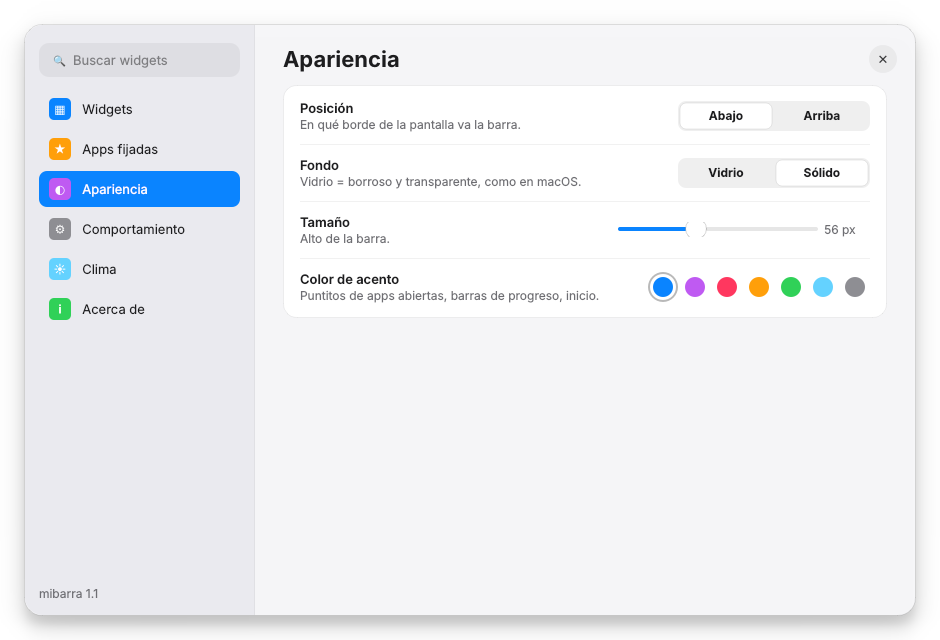
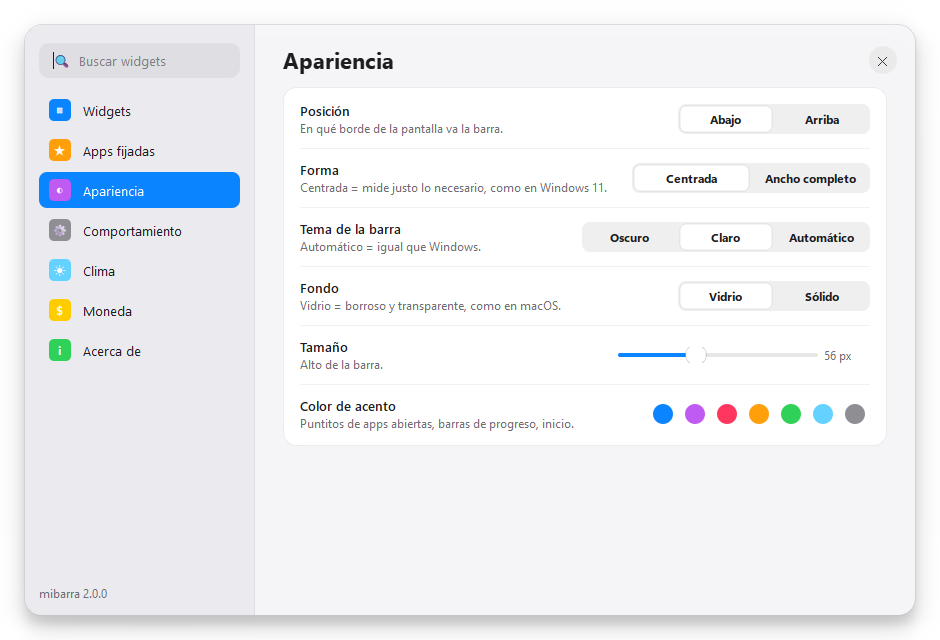
README con capturas reales de Windows, íconos de la barra lateral y ajustes de la bienvenida
Claude-Session: https://claude.ai/code/session_019qzJCWQtgTGMBNPCg4bfSi

diff --git a/ajustes.py b/ajustes.py
@@ -320,8 +320,8 @@ class VistaPrevia(QWidget):
         p.end()
 
 
-def icono_lateral(color, simbolo):
-    """Cuadradito de color con un símbolo blanco (como los íconos de Ajustes del iPhone)."""
+def icono_lateral(color, codigo, respaldo):
+    """Cuadradito de color con un ícono blanco (como los íconos de Ajustes del iPhone)."""
     pixmap = QPixmap(44, 44)
     pixmap.fill(Qt.GlobalColor.transparent)
     p = QPainter(pixmap)
@@ -330,8 +330,9 @@ def icono_lateral(color, simbolo):
     p.setBrush(QColor(color))
     p.drawRoundedRect(QRectF(0, 0, 44, 44), 10, 10)
     p.setPen(QColor("white"))
-    p.setFont(estilo.fuente(24, negrita=True))
-    p.drawText(QRectF(0, 0, 44, 44), Qt.AlignmentFlag.AlignCenter, simbolo)
+    texto, fuente = estilo.icono(codigo, respaldo, 24)
+    p.setFont(fuente)
+    p.drawText(QRectF(0, 0, 44, 44), Qt.AlignmentFlag.AlignCenter, texto)
     p.end()
     return QIcon(pixmap)
 
@@ -404,13 +405,14 @@ class Buscador(QObject):
 # =============================================================================
 class Ajustes(QWidget):
     PAGINAS = [
-        ("widgets", "Widgets", "#0a84ff", "▦"),
-        ("apps", "Apps fijadas", "#ff9f0a", "★"),
-        ("apariencia", "Apariencia", "#bf5af2", "◐"),
-        ("comportamiento", "Comportamiento", "#8e8e93", "⚙"),
-        ("clima", "Clima", "#64d2ff", "☀"),
-        ("moneda", "Moneda", "#ffcc00", "$"),
-        ("acerca", "Acerca de", "#30d158", "i"),
+        # (clave, título, color, (código de ícono de Windows, símbolo de respaldo))
+        ("widgets", "Widgets", "#0a84ff", (0xE8A9, "▦")),
+        ("apps", "Apps fijadas", "#ff9f0a", (0xE718, "★")),
+        ("apariencia", "Apariencia", "#bf5af2", (0xE790, "◐")),
+        ("comportamiento", "Comportamiento", "#8e8e93", (0xE713, "⚙")),
+        ("clima", "Clima", "#64d2ff", (0xE706, "☀")),
+        ("moneda", "Moneda", "#ffcc00", (0xE8EF, "$")),
+        ("acerca", "Acerca de", "#30d158", (0xE946, "i")),
     ]
 
     def __init__(self, dock):
@@ -461,7 +463,7 @@ class Ajustes(QWidget):
             b = QPushButton(f"  {texto}")
             b.setObjectName("nav")
             b.setCheckable(True)
-            b.setIcon(icono_lateral(color, simbolo))
+            b.setIcon(icono_lateral(color, *simbolo))
             b.setIconSize(b.iconSize().scaled(22, 22, Qt.AspectRatioMode.KeepAspectRatio))
             b.setCursor(Qt.CursorShape.PointingHandCursor)
             b.clicked.connect(lambda _, c=clave: self.ir_a(c))

diff --git a/bienvenida.py b/bienvenida.py
@@ -41,7 +41,7 @@ class VentanaFlotante(QWidget):
 
 class Bienvenida(VentanaFlotante):
     def __init__(self, dock):
-        super().__init__(600, 720)
+        super().__init__(600, 640)
         self.dock = dock
         self.setWindowTitle("Bienvenido a mibarra")
         capa = QVBoxLayout(self.ventana)

diff --git a/README.md b/README.md
@@ -1,71 +1,139 @@
+<div align="center">
+
+<img src="recursos/logo.png" width="96" alt="Logo de mibarra">
+
 # mibarra
 
-Una barra para **Windows 10 y 11** que reemplaza a la barra de tareas: tus apps, las ventanas abiertas y widgets en vivo, todo en una sola barra. Hecha en **Python + PyQt6**, inspirada en docks como lumabar.
+**Una barra para Windows 10 y 11 con tus apps, las ventanas abiertas y widgets en vivo. Estilo Apple, gratis y de código abierto.**
 
-![Barra clara](docs/barra-clara.png)
-![Barra oscura](docs/barra-oscura.png)
+[![Pruebas](https://github.com/Vecx06/mibarra/actions/workflows/pruebas.yml/badge.svg)](https://github.com/Vecx06/mibarra/actions/workflows/pruebas.yml)
+[![Última versión](https://img.shields.io/github/v/release/Vecx06/mibarra?label=versi%C3%B3n)](https://github.com/Vecx06/mibarra/releases/latest)
+[![Licencia MIT](https://img.shields.io/badge/licencia-MIT-blue)](LICENSE)
+![Windows 10 y 11](https://img.shields.io/badge/Windows-10%20%7C%2011-0078d4)
 
-## Qué trae
+[**⬇ Descargar**](https://github.com/Vecx06/mibarra/releases/latest) · [Novedades](CHANGELOG.md) · [Reportar un problema](https://github.com/Vecx06/mibarra/issues/new/choose)
 
-- **Apps fijadas y abiertas**, agrupadas por programa. Un punto indica que la app está abierta y una rayita de color, que es la ventana activa.
-- **21 widgets en vivo:** comando (abre programas, páginas, busca o calcula), notas, Wi-Fi/Bluetooth/modo avión, claro/oscuro de Windows, capturas de pantalla, anillos de batería y CPU, conversor de moneda, almacenamiento, música, clima, velocidad de internet, CPU, RAM, disco, batería, volumen, reloj con calendario, progreso del año y un temporizador de estudio (Enfoque).
-- **Centrada como en Windows 11**: mide justo lo que ocupa y crece o se achica con una animación al abrir y cerrar apps (o ancho completo, si prefieres).
-- **Tema claro, oscuro o automático** (sigue a Windows).
-- **Ajustes estilo Apple:** galería de widgets con buscador, apps fijadas, apariencia, comportamiento y clima. Los cambios se aplican al tiro.
-- **Modo edición:** mientras los Ajustes están abiertos, cada widget muestra un círculo rojo **−** para quitarlo.
-- **Efecto vidrio** (fondo borroso), color de acento a elección, barra abajo o arriba.
-- Se **esconde sola** con videos, juegos o presentaciones en pantalla completa.
-- **Reserva su espacio**, así que las ventanas maximizadas no quedan debajo de ella.
-- Al cerrarla, la barra de Windows vuelve exactamente como estaba.
+![mibarra en tema oscuro](docs/real-oscura.png)
+![mibarra en tema claro](docs/real-clara.png)
 
-| Galería de widgets | Comportamiento |
-|---|---|
-| ![Ajustes: widgets](docs/ajustes-widgets.png) | ![Ajustes: comportamiento](docs/ajustes-comportamiento.png) |
+<sub>Capturas reales tomadas en Windows por las pruebas automáticas del proyecto.</sub>
 
-| Apariencia | Moneda |
-|---|---|
-| ![Ajustes: apariencia](docs/ajustes-apariencia.png) | ![Ajustes: moneda](docs/ajustes-moneda.png) |
-
-![Modo edición](docs/barra-modo-edicion.png)
-
-> Las capturas usan apps y datos de ejemplo.
+</div>
 
 ## Descargar e instalar
 
-1. Instala [Python](https://www.python.org/downloads/). Al instalarlo, **marca "Add Python to PATH"**.
-2. Entra a **[la última versión](../../releases/latest)**, descarga **Source code (zip)** y descomprímelo.
-   (También sirve el botón verde **Code → Download ZIP** de esta página.)
-3. Haz doble clic en **`instalar.bat`**.
-4. Haz doble clic en **`iniciar.bat`**.
+1. Entra a **[la última versión](https://github.com/Vecx06/mibarra/releases/latest)**.
+2. Descarga **`mibarra-X.Y.Z-instalador.exe`** y ábrelo.
+3. Siguiente, siguiente, listo. No necesitas Python ni permisos de administrador.
 
-Para cerrarla: clic derecho en un espacio vacío de la barra → **Cerrar mibarra**.
-Si algo sale mal y la barra de Windows queda escondida: doble clic en **`restaurar_barra.bat`**.
+> **"Windows protegió tu PC":** sale porque mibarra es nueva y no está firmada (firmar un programa cuesta dinero).
+> Haz clic en **Más información → Ejecutar de todas formas**. El código está completo aquí para que cualquiera lo revise.
 
-El manual completo está en [LEEME.md](LEEME.md).
+**¿Sin instalar?** Descarga `mibarra-X.Y.Z-portable.zip`, descomprímelo y abre `mibarra.exe`.
 
-## Cómo está hecha
+## Qué trae
 
-| Archivo | Qué contiene |
+- **Centrada como en Windows 11:** mide justo lo que ocupa y se anima al abrir y cerrar apps. También puede ir de borde a borde, abajo o arriba.
+- **Tus apps:** fijadas y abiertas, agrupadas por programa. Un punto indica que está abierta y una rayita de color, que es la que estás usando.
+- **21 widgets en vivo** (tabla más abajo).
+- **Tema claro, oscuro o automático**, con efecto vidrio y el color de acento que elijas.
+- **Ajustes estilo Apple:** galería de widgets con buscador. Los cambios se aplican al tiro.
+- **Modo edición:** con los Ajustes abiertos, cada widget muestra un círculo rojo **−** para quitarlo.
+- **Se esconde** con videos, juegos o presentaciones en pantalla completa.
+- **Reserva su espacio:** las ventanas maximizadas no quedan debajo de ella.
+- **Segura:** al cerrarla, la barra de Windows vuelve exactamente como estaba. Y si mibarra se cae, un *guardián* la devuelve solo.
+
+| Galería de widgets | Apariencia |
 |---|---|
-| `main.py` | Punto de partida: crea la app, carga los ajustes y abre la barra |
-| `config.py` | Lee y guarda `config.json` |
-| `estilo.py` | Colores, letras y estilos de menús |
-| `dock.py` | La barra: inicio, íconos de apps, ubicación en pantalla, menús, modo edición |
-| `ajustes.py` | La ventana de Ajustes (interruptores, galería, buscador) |
-| `widgets.py` | Los widgets básicos (y las clases base `Caja` y `Tile`) |
-| `mas_widgets.py` | Widgets de la 1.2: comando, notas, conexiones, tema, capturas, anillos, moneda, almacenamiento |
-| `sistema_windows.py` | Todo lo que habla con Windows usando `ctypes`: ventanas abiertas, ocultar la barra, reservar espacio, efecto vidrio, teclas multimedia |
+| ![Ajustes: widgets](docs/ajustes-widgets.png) | ![Ajustes: apariencia](docs/ajustes-apariencia.png) |
 
-## Limitaciones conocidas
+<p align="center"><img src="docs/bienvenida.png" width="420" alt="Pantalla de bienvenida"><br><sub>La bienvenida, la primera vez que abres mibarra.</sub></p>
 
-- Funciona solo en el monitor principal.
-- Los íconos de la bandeja (wifi, Discord, Steam…) no aparecen en mibarra; el botón **⌃** muestra la barra de Windows un rato.
-- Las apps de la Microsoft Store aparecen con un ícono de letra.
+### Widgets
 
-## Actualizar
+| Widget | Qué hace |
+|---|---|
+| **Reloj** | Hora y fecha. Clic: calendario |
+| **Comando** | Escribe y aprieta Enter: `notepad` abre el programa, `youtube.com` la página, `?gatos` busca en Google, `=15*3` calcula |
+| **Notas** | Una nota rápida que se guarda sola |
+| **Enfoque** | Temporizador de 25 minutos para estudiar |
+| **Conexiones** | Wi-Fi (con el nombre de tu red), Bluetooth y modo avión |
+| **Claro / oscuro** | Cambia todo Windows entre modo claro y oscuro |
+| **Capturas** | Recortar, capturar la pantalla y abrir la carpeta de capturas |
+| **Música** | Canción que suena, con anterior, pausa y siguiente |
+| **Volumen** | Rueda del mouse para subir y bajar. Clic: silenciar |
+| **Clima** | Temperatura de tu ciudad |
+| **Moneda** | Conversor (por ejemplo 1 USD → CLP). Clic: invertir |
+| **CPU, RAM, Red** | Uso del PC y velocidad de internet |
+| **Anillos de CPU y batería** | Lo mismo, como anillos que se llenan |
+| **Disco, Almacenamiento** | Espacio usado y libre |
+| **Batería** | Carga y tiempo restante (solo notebooks) |
+| **Progreso del año** | Cuánto del año ya pasó |
+| **Bandeja** | Muestra un rato la barra de Windows (wifi, íconos ocultos, notificaciones) |
 
-Descarga el zip de la nueva versión, cierra mibarra y copia los archivos encima de tu carpeta (elige "Reemplazar"). Tu `config.json` y tus notas no se tocan.
+## Cómo se usa
+
+- **Ajustes:** clic derecho en un espacio vacío de la barra → **Ajustes de mibarra…**
+- **Agregar widgets:** Ajustes › Widgets › **＋ Agregar**.
+- **Fijar una app:** clic derecho sobre su ícono → **Fijar al dock**.
+- **Ayuda en cualquier parte:** pasa el mouse sobre algo y te explica qué hace.
+
+## Preguntas frecuentes
+
+**La barra de Windows quedó escondida.** Abre **Inicio › Restaurar barra de Windows**. Normalmente no hace falta, porque el guardián lo hace solo.
+
+**¿Cómo la desinstalo?** Desde *Configuración › Aplicaciones*, como cualquier programa. La barra de Windows vuelve a la normalidad.
+
+**¿Dónde están mis ajustes y notas?** En `%APPDATA%\mibarra`, o en Ajustes › Acerca de › **Abrir carpeta**. Desde ahí también puedes respaldarlos.
+
+**¿Funciona con dos monitores?** Por ahora la barra aparece solo en el monitor principal.
+
+**Los íconos de la bandeja (Discord, Steam…) no aparecen.** Usa el widget **Bandeja** para ver la barra de Windows un rato.
+
+## Privacidad
+
+mibarra no tiene cuentas ni telemetría y no envía datos tuyos a ningún servidor propio. Solo se conecta a internet para:
+- el **clima**, con [Open-Meteo](https://open-meteo.com) y la ciudad que elijas;
+- la **moneda**, con [open.er-api.com](https://open.er-api.com) y las monedas que elijas;
+- revisar si hay **versiones nuevas** en GitHub (se puede desactivar).
+
+Tus notas y ajustes se quedan en tu PC.
+
+## Para desarrolladores
+
+```bat
+git clone https://github.com/Vecx06/mibarra
+cd mibarra
+python -m pip install -r requirements.txt -r requirements-opcional.txt
+python main.py
+```
+
+- **Pruebas:** `python -m pytest`. En GitHub corren en un Windows real con cada cambio: abren la barra de verdad, revisan que la barra de Windows vuelva a como estaba y sacan las capturas de esta página.
+- **Crear el `.exe`:** `python construir.py` (PyInstaller). El instalador se arma con [Inno Setup](https://jrsoftware.org/isinfo.php) (`instalador.iss`). Cuando se publica una versión, GitHub hace las dos cosas solo.
+- Detalles del código, cómo agregar un widget y cómo publicar: [CONTRIBUTING.md](CONTRIBUTING.md).
+
+Hecho en Python con PyQt6, psutil y ctypes.
+
+## Lo que viene
+
+- Soporte para varios monitores
+- Vista previa de las ventanas al pasar el mouse
+- Arrastrar para reordenar apps y widgets en la barra
+- Íconos reales para las apps de la Microsoft Store
+
+¿Tienes una idea? [Propónla aquí](https://github.com/Vecx06/mibarra/issues/new/choose).
 
 ## Licencia
 
-[MIT](LICENSE): puedes usarlo, modificarlo y compartirlo, siempre que mantengas el aviso de autor.
+[MIT](LICENSE) © Vecx06. Puedes usarlo, modificarlo y compartirlo, siempre que mantengas el aviso de autor.
+
+---
+
+<details>
+<summary><b>English</b></summary>
+
+**mibarra** is a free, open-source taskbar replacement for Windows 10 and 11: pinned and running apps plus 21 live widgets
+(weather, music, network, CPU/RAM, notes, quick launcher, currency converter, Wi-Fi/Bluetooth toggles and more),
+centered like Windows 11, with light/dark themes and an Apple-style settings window.
+Download the installer from [Releases](https://github.com/Vecx06/mibarra/releases/latest). The UI is in Spanish.
+</details>

diff --git a/LEEME.md b/LEEME.md
@@ -1,44 +1,27 @@
-# mibarra 1.3
+# mibarra 2.0
 
-## Novedades de la 1.3
-- **Barra centrada, como en Windows 11:** flota al medio y mide justo lo que ocupa su contenido, sin espacios vacíos. Si abres o cierras apps, crece o se achica con una animación.
-- Si prefieres la de antes: Ajustes › Apariencia › Forma › **Ancho completo**.
+Manual de uso. El historial completo de cambios está en `CHANGELOG.md`.
 
-## Novedades de la 1.2
-- **Tema claro** para la barra (y modo **Automático**, que sigue a Windows): Ajustes › Apariencia › Tema de la barra.
-- **9 widgets nuevos** (agrégalos en Ajustes › Widgets):
-  - **Comando:** escribe y aprieta Enter. `notepad` abre el programa, `youtube.com` abre la página, `?gatos` busca en Google, `=15*3` calcula.
-  - **Notas:** una nota rápida que se guarda sola (en `notas.txt`).
-  - **Conexiones:** Wi-Fi (con el nombre de tu red), Bluetooth y modo avión.
-  - **Claro / oscuro:** cambia TODO Windows entre modo claro y oscuro.
-  - **Capturas:** recortar (Win+Shift+S), capturar la pantalla entera y abrir la carpeta de capturas.
-  - **Anillo de batería** y **Anillo de CPU.**
-  - **Moneda:** conversor (por ejemplo 1 USD → CLP). Clic para invertir. Se configura en Ajustes › Moneda.
-  - **Almacenamiento:** GB libres en tu disco.
+## Novedades de la 2.0
+- **Instalador** para Windows: ya no necesitas Python.
+- **Guardián:** si mibarra se cierra mal, la barra de Windows vuelve sola.
+- **Bienvenida** la primera vez, **aviso de versiones nuevas** y **respaldar / importar / restablecer** ajustes (Ajustes › Acerca de).
+- Si no caben todos los widgets, se esconden los que sobran (el reloj siempre queda).
+- Registro de errores (`mibarra.log`) y botón para reportar problemas.
 
+## Instalación
 
-## Novedades de la 1.1
-- **Ajustes propios estilo Apple**: clic derecho en un espacio vacío de la barra → *Ajustes de mibarra…*. Ya no se abre el Bloc de notas.
-- **Galería de widgets** con buscador: agrega, quita y ordena widgets con un clic.
-- **Modo edición**: mientras los Ajustes están abiertos, cada widget de la barra muestra un círculo rojo **−** para quitarlo.
-- **Los cambios se aplican al tiro**, sin reiniciar.
-- **Widgets nuevos**: Disco, Progreso del año y Enfoque (temporizador de 25 min para estudiar).
-- **Arreglado**: la barra ahora sí se esconde con videos de YouTube (u otros) en pantalla completa.
-- Clima: busca tu ciudad por nombre, sin escribir latitud ni longitud.
+**Lo más fácil:** descarga `mibarra-X.Y.Z-instalador.exe` desde https://github.com/Vecx06/mibarra/releases/latest y ábrelo.
 
-Una barra para Windows 10 y 11 que reemplaza a la barra de tareas: tus apps, las ventanas abiertas y widgets en vivo, todo en una sola barra.
-
-## Instalación (una sola vez)
-
-1. Instala **Python** desde python.org. Al instalarlo, **marca la casilla "Add Python to PATH"**.
-2. Descomprime esta carpeta donde quieras, por ejemplo en `Documentos\mibarra`.
-3. Haz doble clic en **`instalar.bat`** y espera a que diga "Listo".
+**Con Python (esta carpeta):**
+1. Instala **Python** desde python.org y **marca "Add Python to PATH"**.
+2. Haz doble clic en **`instalar.bat`** y espera a que diga "Listo".
 
 ## Uso
 
-- **Abrir:** doble clic en **`iniciar.bat`**.
+- **Abrir:** desde el menú Inicio (si la instalaste) o con doble clic en **`iniciar.bat`** (con Python).
 - **Cerrar:** clic derecho en un espacio vacío de la barra → **Cerrar mibarra**. La barra de Windows vuelve sola.
-- **Si algo sale mal** y la barra de Windows quedó escondida: doble clic en **`restaurar_barra.bat`**.
+- **Si algo sale mal** y la barra de Windows quedó escondida: normalmente vuelve sola (el guardián). Si no, usa **Inicio › Restaurar barra de Windows** (instalada) o **`restaurar_barra.bat`** (con Python).
 
 ## Qué hace cada cosa
 
@@ -82,7 +65,9 @@ Ojo: en JSON los textos van entre comillas dobles, `true`/`false` van en minúsc
 
 | Archivo | Qué contiene |
 |---|---|
-| `main.py` | El punto de partida: crea la app, carga los ajustes y abre la barra |
+| `main.py` | El punto de partida: crea la app, el guardián y `--restaurar` |
+| `version.py`, `rutas.py`, `registro.py` | Versión, dónde se guardan los archivos y registro de errores |
+| `actualizaciones.py`, `bienvenida.py`, `logo.py` | Aviso de versiones nuevas, bienvenida y logo |
 | `config.py` | Lee y guarda `config.json` |
 | `estilo.py` | Colores, letras y estilos de menús |
 | `dock.py` | La barra: inicio, íconos de apps, ubicación en pantalla, menús, modo edición |
